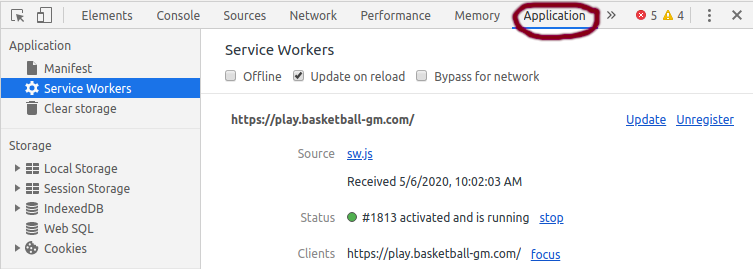
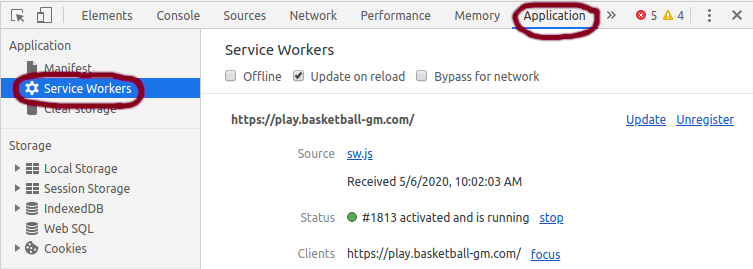
Update FAQ about latest version

Changed region(s): [[0.0, 0.2379, 0.2138, 0.4164]]

diff --git a/basketball-gm.com/manual/faq/index.html b/basketball-gm.com/manual/faq/index.html
@@ -20,7 +20,7 @@ title: FAQ
 <p><b>Method 1:</b> Close all tabs with Basketball GM open and then open Basketball GM again. Or restart your browser. If this doesn't work the first time, try again. Pressing the "reload" button will probably not help.</p>
 <p><b>Method 2:</b>> Try manually emptying your cache. In Chrome, from the main menu go to "More tools" > "Clear browsing data". Make sure you select "Cached images and files" and <i>do not select</i> "Cookies and other site data" because "other site data" is where Basketball GM stores all your leagues. Then try closing all open tabs with Basketball GM and opening it again, like above.</p>
 <p><b>Method 3:</b> Open Basketball GM in a single tab in your web browser. Open your browser dev tools (ctrl+shift+i, or ctrl+cmd+i on a Mac) and then do a hard refresh (ctrl+shift+r, or ctrl+cmd+r on a Mac).</p>
-<p><b>Method 4:</b> Open Basketball GM in a single tab in your web browser. Open your browser dev tools (ctrl+shift+i, or ctrl+cmd+i on a Mac). At the top of dev tools panel, click "Application". (if it's too narrow to see, you might have to click the >> to see it):</p>
+<p><b>Method 4:</b> Open Basketball GM in a single tab in your web browser. Open your browser dev tools (ctrl+shift+i, or ctrl+cmd+i on a Mac). At the top of dev tools panel, click "Application" (if it's too narrow to see, you might have to click the >> to see it) and then click "Service Workers" on the left:</p>
 <p><img src="/files/delete-sw-1.png" class="img-responsive"></p>
 <p>Then click "Unregister" to the right of https://play.basketball-gm.com/:</p>
 <p><img src="/files/delete-sw-2.png" class="img-responsive"></p>

diff --git a/football-gm.com/manual/faq/index.html b/football-gm.com/manual/faq/index.html
@@ -20,7 +20,7 @@ title: FAQ
 <p><b>Method 1:</b> Close all tabs with Football GM open and then open Football GM again. Or restart your browser. If this doesn't work the first time, try again. Pressing the "reload" button will probably not help.</p>
 <p><b>Method 2:</b>> Try manually emptying your cache. In Chrome, from the main menu go to "More tools" > "Clear browsing data". Make sure you select "Cached images and files" and <i>do not select</i> "Cookies and other site data" because "other site data" is where Football GM stores all your leagues. Then try closing all open tabs with Football GM and opening it again, like above.</p>
 <p><b>Method 3:</b> Open Football GM in a single tab in your web browser. Open your browser dev tools (ctrl+shift+i, or ctrl+cmd+i on a Mac) and then do a hard refresh (ctrl+shift+r, or ctrl+cmd+r on a Mac).</p>
-<p><b>Method 4:</b> Open Football GM in a single tab in your web browser. Open your browser dev tools (ctrl+shift+i, or ctrl+cmd+i on a Mac). At the top of dev tools panel, click "Application". (if it's too narrow to see, you might have to click the >> to see it):</p>
+<p><b>Method 4:</b> Open Football GM in a single tab in your web browser. Open your browser dev tools (ctrl+shift+i, or ctrl+cmd+i on a Mac). At the top of dev tools panel, click "Application". (if it's too narrow to see, you might have to click the >> to see it) and then click "Service Workers" on the left:</p>
 <p><img src="/files/delete-sw-1.png" class="img-responsive"></p>
 <p>Then click "Unregister" to the right of https://play.football-gm.com/:</p>
 <p><img src="/files/delete-sw-2.png" class="img-responsive"></p>

diff --git a/basketball-gm.com/_posts/2019-07-08-so-you-want-to-write-a-sports-sim-game.md b/basketball-gm.com/_posts/2019-07-08-so-you-want-to-write-a-sports-sim-game.md
@@ -73,8 +73,8 @@ Keep iterating. Refine your schema. Improve your code. Expand your GUI.
 
 Keep at it for long enough and you might wind up with something even better than Basketball GM!
 
-After reading all this, you may still feel overwhelmed. That's okay. Maybe you just need to push through that. Or maybe you need to work on some simpler projects before tackling a sports sim game. I don't know, there's no universal answer. Use your best judgment do what feels right.
+After reading all this, you may still feel overwhelmed. That's okay. Maybe you just need to push through that. Or maybe you need to work on some simpler projects before tackling a sports sim game. I don't know, there's no universal answer. Use your best judgment and do what feels right.
 
-I hope this is helpful information. If you end up trying to make your own game, please [let me know how it goes](/contact/). Feel free to ask me any questions you have too. I love to talk programming! You can also [join the BBGM Discord, which has a channel dedicated to programming](https://discord.gg/E9HUwbq).
+I hope this is helpful information. If you end up trying to make your own game, please [let me know how it goes](/contact/). Feel free to ask me any questions you have too. I love to talk programming! You can also [join the BBGM Discord, which has a channel dedicated to programming](https://discord.gg/P7z3GMf).
 
 (Also you may be interested in a bit more development information that I wrote [in an old blog post](/blog/2013/12/development-history/), and some more info [on the About page](/about/).)
